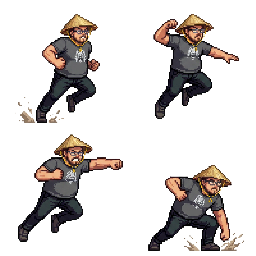
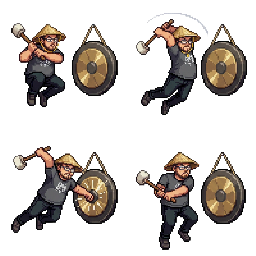
Asen balance

diff --git a/gen_gong.py b/gen_gong.py
@@ -1,0 +1,131 @@
+#!/usr/bin/env python3
+"""Generate asen-gong.png sprite sheet (256x256, 4 frames of 128x128)."""
+from PIL import Image, ImageDraw
+
+W, H = 128, 128
+frames = []
+
+for i in range(4):
+    img = Image.new("RGBA", (W, H), (0, 0, 0, 0))
+    d = ImageDraw.Draw(img)
+
+    # --- Asen character (centered) ---
+    # Conical hat
+    d.polygon([(36,22),(60,8),(84,22)], fill="#DAA520", outline="#8B7D2C", width=2)
+    d.ellipse([44, 20, 74, 38], fill="#DAA520", outline="#8B7D2C", width=2)
+    # Face
+    d.ellipse([50, 30, 68, 46], fill="#DEB887")
+    # Body / shirt
+    d.rectangle([46, 44, 66, 58], fill="#3B4A62")
+    # Arms
+    d.rectangle([40, 44, 48, 52], fill="#3B4A62")
+    d.rectangle([66, 44, 74, 52], fill="#3B4A62")
+    # Hands
+    d.ellipse([38, 48, 44, 54], fill="#DEB887")
+    d.ellipse([70, 48, 76, 54], fill="#DEB887")
+    # Legs / jeans
+    d.rectangle([48, 60, 56, 82], fill="#2E4057")
+    d.rectangle([60, 60, 68, 82], fill="#2E4057")
+    # Shoes
+    d.rectangle([46, 82, 56, 88], fill="#1a1a1a")
+    d.rectangle([60, 82, 70, 88], fill="#1a1a1a")
+
+    # --- Gong (right side) ---
+    gong_x, gong_y = 96, 48
+    gong_r = 22
+
+    if i == 0:
+        # Frame 1: wind-up, arm raised
+        d.ellipse([gong_x - gong_r, gong_y - gong_r,
+                   gong_x + gong_r, gong_y + gong_r],
+                  fill="#DAA520", outline="#8B6914", width=3)
+        d.ellipse([gong_x - 14, gong_y - 14,
+                   gong_x + 14, gong_y + 14],
+                  fill=None, outline="#C49B1F", width=1)
+        # Mallet raised
+        d.line([(72, 48), (82, 36)], fill="#8B4513", width=3)
+        d.ellipse([78, 30, 86, 38], fill="#654321")
+
+    elif i == 1:
+        # Frame 2: impact!
+        d.ellipse([gong_x - gong_r, gong_y - gong_r,
+                   gong_x + gong_r, gong_y + gong_r],
+                  fill="#FFD700", outline="#8B6914", width=3)
+        # Impact flash
+        d.ellipse([gong_x - 8, gong_y - 8,
+                   gong_x + 8, gong_y + 8],
+                  fill="#FFFFFF")
+        # Impact lines
+        for angle in range(0, 360, 45):
+            import math
+            cx, cy = gong_x, gong_y
+            x1 = cx + int(10 * math.cos(math.radians(angle)))
+            y1 = cy + int(10 * math.sin(math.radians(angle)))
+            x2 = cx + int(18 * math.cos(math.radians(angle)))
+            y2 = cy + int(18 * math.sin(math.radians(angle)))
+            d.line([(x1, y1), (x2, y2)], fill="#FFD700", width=2)
+        # Mallet at gong
+        d.line([(72, 48), (gong_x - 5, gong_y)], fill="#8B4513", width=3)
+        d.ellipse([gong_x - 10, gong_y - 5, gong_x - 2, gong_y + 3], fill="#654321")
+
+    elif i == 2:
+        # Frame 3: shockwaves expanding
+        d.ellipse([gong_x - gong_r, gong_y - gong_r,
+                   gong_x + gong_r, gong_y + gong_r],
+                  fill="#DAA520", outline="#8B6914", width=3)
+        # Shockwave rings
+        d.ellipse([gong_x - 30, gong_y - 30,
+                   gong_x + 30, gong_y + 30],
+                  fill=None, outline="#FFD700", width=2)
+        d.ellipse([gong_x - 40, gong_y - 40,
+                   gong_x + 40, gong_y + 40],
+                  fill=None, outline="#FFA500", width=1)
+        # Radiating lines
+        import math
+        for angle in range(0, 360, 30):
+            cx, cy = gong_x, gong_y
+            x1 = cx + int(24 * math.cos(math.radians(angle)))
+            y1 = cy + int(24 * math.sin(math.radians(angle)))
+            x2 = cx + int(40 * math.cos(math.radians(angle)))
+            y2 = cy + int(40 * math.sin(math.radians(angle)))
+            d.line([(x1, y1), (x2, y2)], fill="#FFD700", width=1)
+        # Follow-through arm
+        d.line([(72, 48), (90, 50)], fill="#8B4513", width=3)
+
+    else:
+        # Frame 4: big shockwaves, fading
+        d.ellipse([gong_x - gong_r, gong_y - gong_r,
+                   gong_x + gong_r, gong_y + gong_r],
+                  fill="#DAA520", outline="#8B6914", width=3)
+        # Big shockwaves
+        d.ellipse([gong_x - 45, gong_y - 45,
+                   gong_x + 45, gong_y + 45],
+                  fill=None, outline="#FFD700", width=2)
+        d.ellipse([gong_x - 55, gong_y - 55,
+                   gong_x + 55, gong_y + 55],
+                  fill=None, outline="#FFA500", width=1)
+        d.ellipse([gong_x - 65, gong_y - 65,
+                   gong_x + 65, gong_y + 65],
+                  fill=None, outline="#FF8C00", width=1)
+        # Radiating lines wider
+        import math
+        for angle in range(0, 360, 25):
+            cx, cy = gong_x, gong_y
+            x1 = cx + int(28 * math.cos(math.radians(angle)))
+            y1 = cy + int(28 * math.sin(math.radians(angle)))
+            x2 = cx + int(55 * math.cos(math.radians(angle)))
+            y2 = cy + int(55 * math.sin(math.radians(angle)))
+            d.line([(x1, y1), (x2, y2)], fill="#FFD700", width=1)
+        # Arm returning
+        d.line([(72, 48), (78, 42)], fill="#8B4513", width=3)
+
+    frames.append(img)
+
+# Composite into 256x256 sheet (2x2 grid)
+sheet = Image.new("RGBA", (256, 256), (0, 0, 0, 0))
+positions = [(0, 0), (128, 0), (0, 128), (128, 128)]
+for frame, (px, py) in zip(frames, positions):
+    sheet.paste(frame, (px, py))
+
+sheet.save("assets/asen/asen-gong.png")
+print("Generated assets/asen/asen-gong.png")
